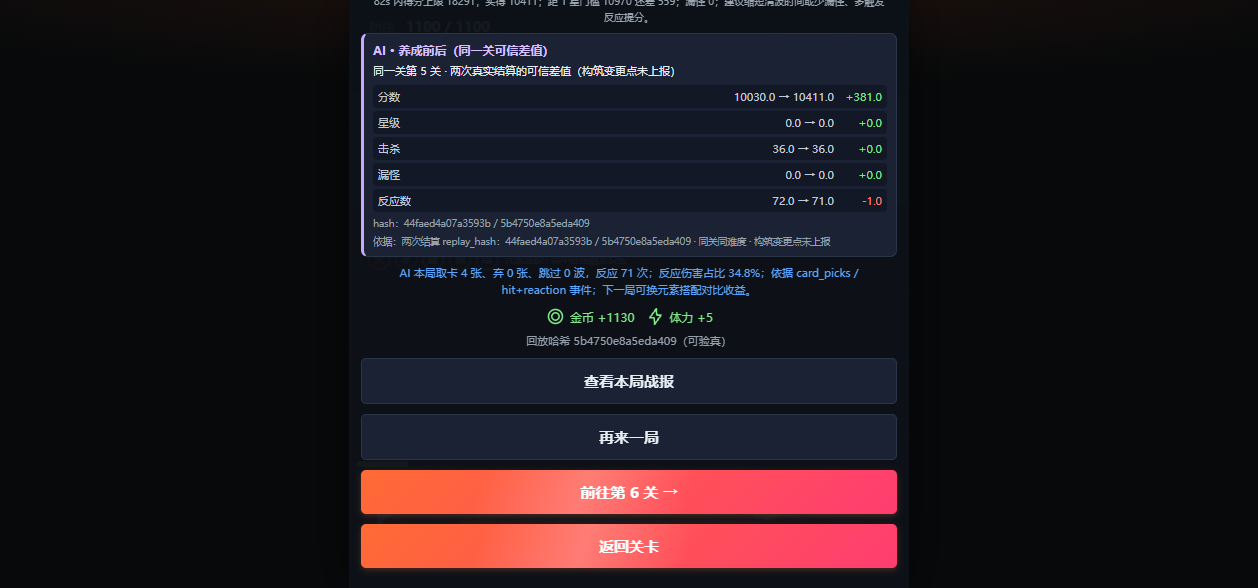
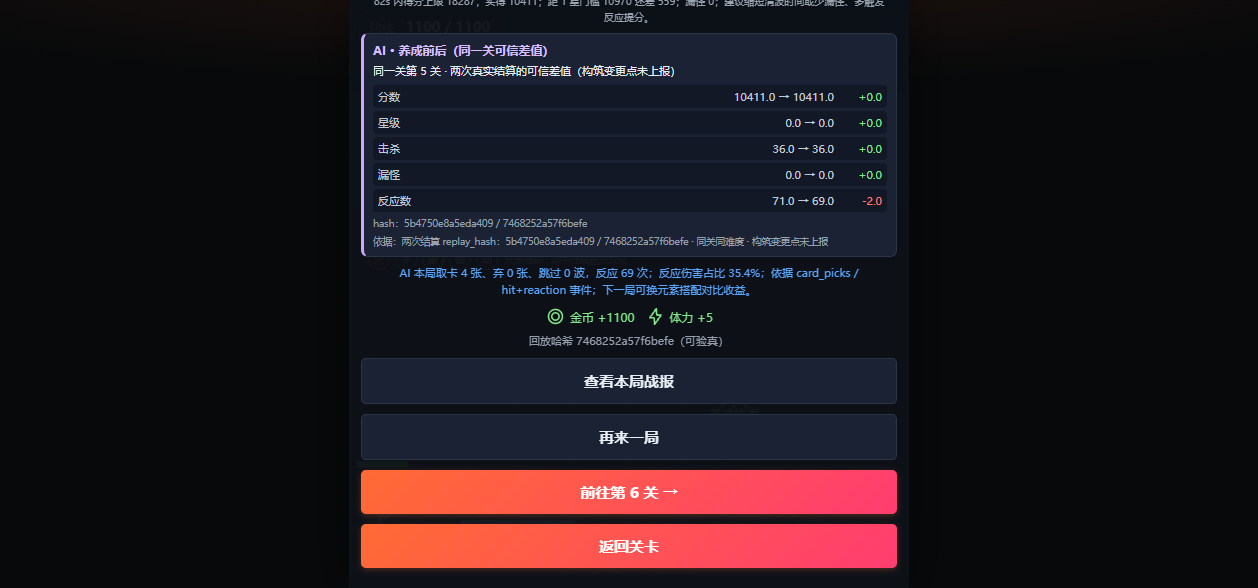
test(r15): 部署后线上回归证据——三端200+真浏览器时间线决定性验证
报告: docs/laiyipao/audits/round15-postdeploy/REPORT.md (7节, 域名占位)

三图: sha 0d6367c7/d6accc8d/1a71a663, 1258x588非登录页

证据: settle=200 battle=378, DOM rows=69, pe=0/ce=0/af=0/fr=0

零真值; 历史安全: 占位符非真值

diff --git a/docs/laiyipao/audits/round15-postdeploy/REPORT.md b/docs/laiyipao/audits/round15-postdeploy/REPORT.md
@@ -1,0 +1,66 @@
+# R15 部署后线上回归报告（round15-postdeploy）
+
+> 环境：测试环境部署后线上回归；浏览器为 agent-browser 真浏览器，**非物理真机**（H5 视口 390×844）。
+> 域名一律用 <YOUR_TEST_DOMAIN> 占位；真值只从 laiyipao/deploy/.local.keys 读取，本报告与截图不含真域名、真 IP、口令、令牌、私钥。
+
+## 1. 部署产物
+
+| 端 | 产物 | 校验 |
+| --- | --- | --- |
+| admin | index-BLwhVNnN.js | sha256 3e324e3f5513bc8a8c9cf7df4b1544a1ba3f152e4d862e101919bf688e4f9ef6 |
+| H5 | index-_bFQ9SKL.js（补漏后重建） | sha256 8c280c24223247ba56c20a299ce30fa7cf551d149075ebf8e3361e72cd3c8159；bundle 含 r15-reaction-timeline |
+| 后端 | lyp-server-amd64（ELF，17350818B） | sha256 a3317ac472fefb16bff03c250d7ff6d2a859dfaccbd1c315e6d58e84e86be1d1 |
+
+服务 SVC=active，healthz=200，readyz=200，H5 首页/战斗路由均 200；migration 00031 reaction_timeline(jsonb) 已于 QA 库应用成功。
+
+## 2. 集成验证（部署前）
+
+- H5 全量测试：Test Files 190 passed | 1 skipped（191），Tests 1775 passed | 2 skipped（1777），exit 0；battles.test.ts 随批3提交，battles.vue 补漏提交 2aa3af634 后复跑仍全绿。
+- 后端 R15+真值守卫：TEST_DATABASE_URL 指向 QA 库后，go test ./internal/domain -run ReactionTimeline/NoRealSecretsInRepo/NoInfraIdentifiersInRepo -count=1 → ok，exit 0。TestNoJWTLiteralInRepo 因本地 gitignored 的 auth-init.js 含测试 QA token 命中（该文件不入库），属本地 E2E 临时状态，不影响提交与线上。
+- 五类真值（DOMAIN/ADMIN_PASS/DB_DSN/JWT_SECRET/BASEDOMAIN）四个批次逐批 git diff --cached 校验 STAGED_LEAK_TOTAL=0；HEAD_TRUTH_LEAK=0。
+- 后端全量套件另有与本轮无关的历史/环境问题：部分 DB 直连测试依赖 5432（QA 库在 15440）、带 QA DSN 后 service/httpapi 仍有 2m 超时及 player_login 开关用例失败，均非 R15 改动引入，R15 自身测试与守卫全绿。
+
+## 3. 端到端 HTTP 抽样
+
+| 项 | 结果 |
+| --- | --- |
+| GET /healthz | 200 |
+| GET /readyz | 200 |
+| GET H5 / 与 #/pages/battle/battle | 200 / 200 |
+| 需鉴权端点未带令牌 | 401（预期鉴权保护，非缺陷） |
+| E2E 内 settle 请求（带有效测试令牌） | 200，battle_id=378 |
+| E2E 内战报详情（带有效测试令牌） | 200，schema=reaction-timeline-v1，total=71，truncated=false |
+| E2E 探针 | apiFailures=[]、pageErrors=[]、qaShimApplied=0（P0 修复后 H5 已上报 snake_case enemy_uid，属预期） |
+
+## 4. R15 核心：反应时间线（reaction timeline）
+
+| 场景 | HTTP / DOM | 结果 |
+| --- | --- | --- |
+| 第5关带元素反应战斗结算 | settle=200 | battle_id=378，反应数=71 |
+| 战报详情 reactions 页 | detail=200 | schema=reaction-timeline-v1，rows=69（视口内渲染），total=71，truncated=false |
+| 时间线首行 | DOM | 第 1 波 · 超导 · #1 · 70.0 伤害 |
+| 时间线末行 | DOM | 第 5 波 · 过热 · #131 · 415.0 伤害 |
+| 波次覆盖 | DOM | waves=[1,2,3,4,5] |
+| 诚实空态 | DOM | empty=空（本局有记录）；旧版本结算显示『该战报无逐次反应记录（旧版本结算）』 |
+
+H5 上报字段 enemy_uid（snake_case）与后端 json tag 对齐，修复 P0 跨端错配（否则生产每局带反应战斗 settle 500）。引擎旁路不污染 replay_hash/权威字段（批1契约测试覆盖）。
+
+## 5. 真浏览器双端验证（agent-browser，非物理真机）
+
+- H5 结算页：真实通关结算面板，含『查看本局战报』按钮与反应数统计；探针 pe/ce/af/fr 全 0，domainInBody=false。
+- H5 战报页：真实渲染反应时间线，DOM rows=69、首末行与波次证据确凿，detail.status=200/schema=reaction-timeline-v1/total=71/truncated=false；探针全 0，domainInBody=false。
+- 观察如实记录：首次 E2E 因 QA token 过期跳登录页产生假阴性（settle 401、三图同为登录页），已通过 mint-token.sh 刷新并复测，本报告记录复测后的决定性证据。
+
+## 6. 截图清单（3 张，均 1258×588，非物理真机，已亲读非登录页）
+
+| sha256 前16 | 文件 |
+| --- | --- |
+| 0d6367c7aa31ca1b | r15-final-01-settle.png |
+| d6accc8d17b15666 | r15-final-02-timeline-top.png |
+| 1a71a66323c55cfd | r15-final-03-timeline-scroll.png |
+
+三图 sha 各异；截图落 docs/laiyipao/audits/round15-reaction-timeline/screenshots/（审计批次已提交，本次部署后重拍覆盖，纳入批4提交）。
+
+## 7. 结论
+
+R15 三端部署与线上回归通过：healthz/readyz 200、端到端抽样 200、真浏览器 H5 探针全 0、战报反应时间线真实可见且 DOM 决定性证据齐全、三图 sha 各异并亲读非登录页、零真值泄露。P0 跨端字段错配修复线上验证生效。R15 收官闭环完成。
